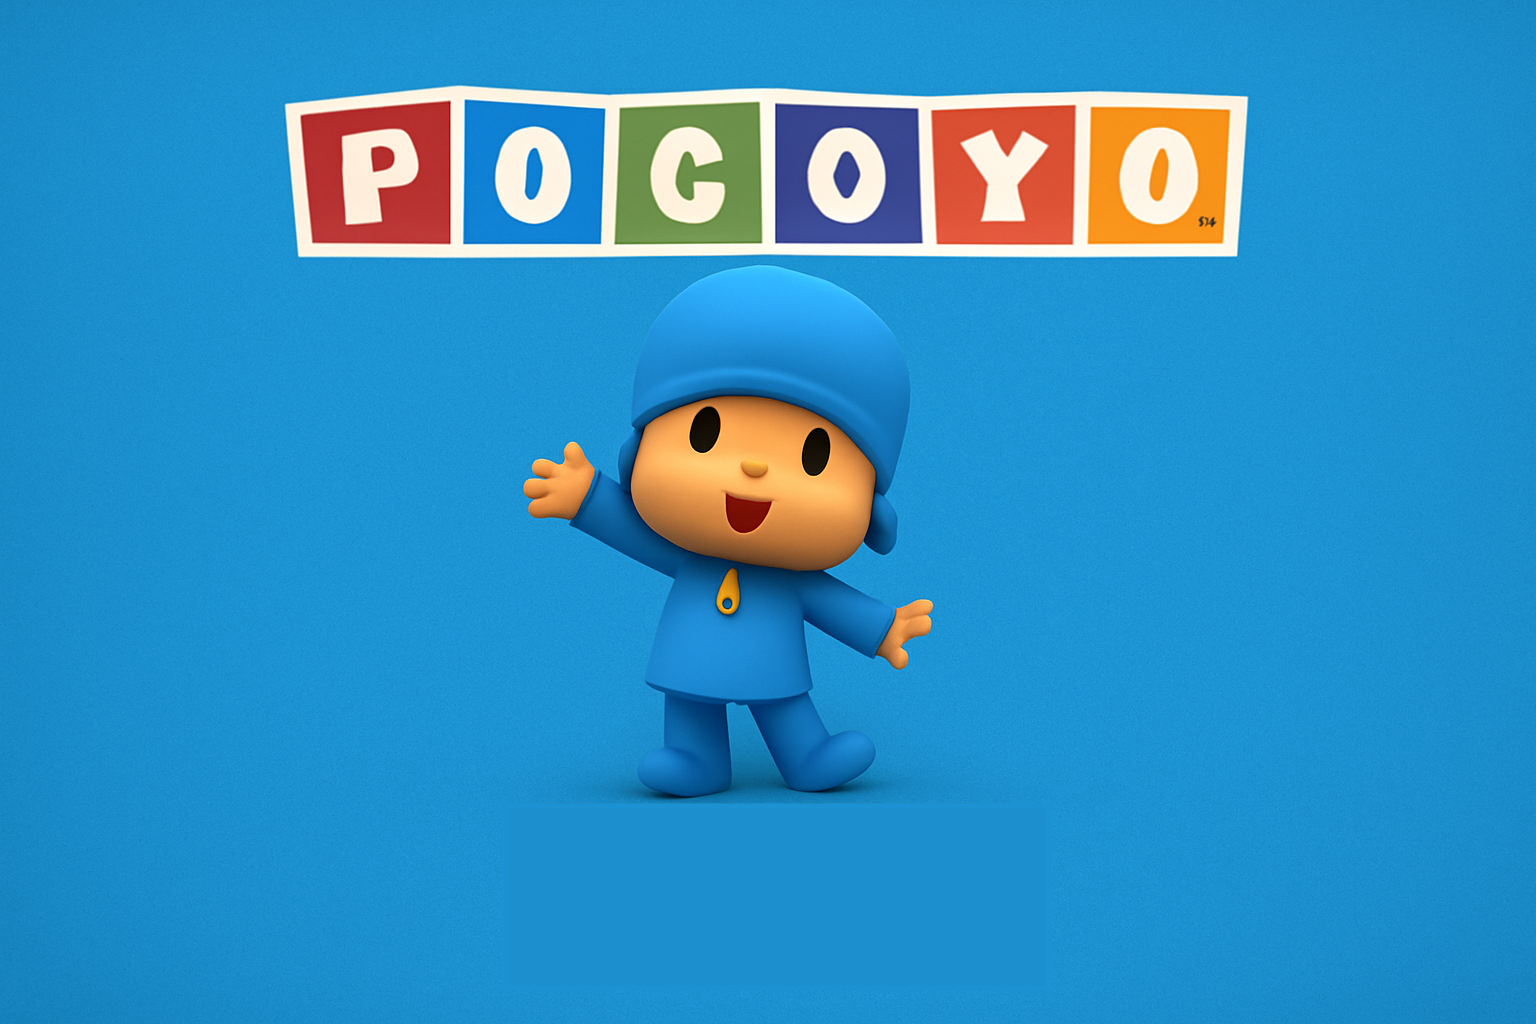
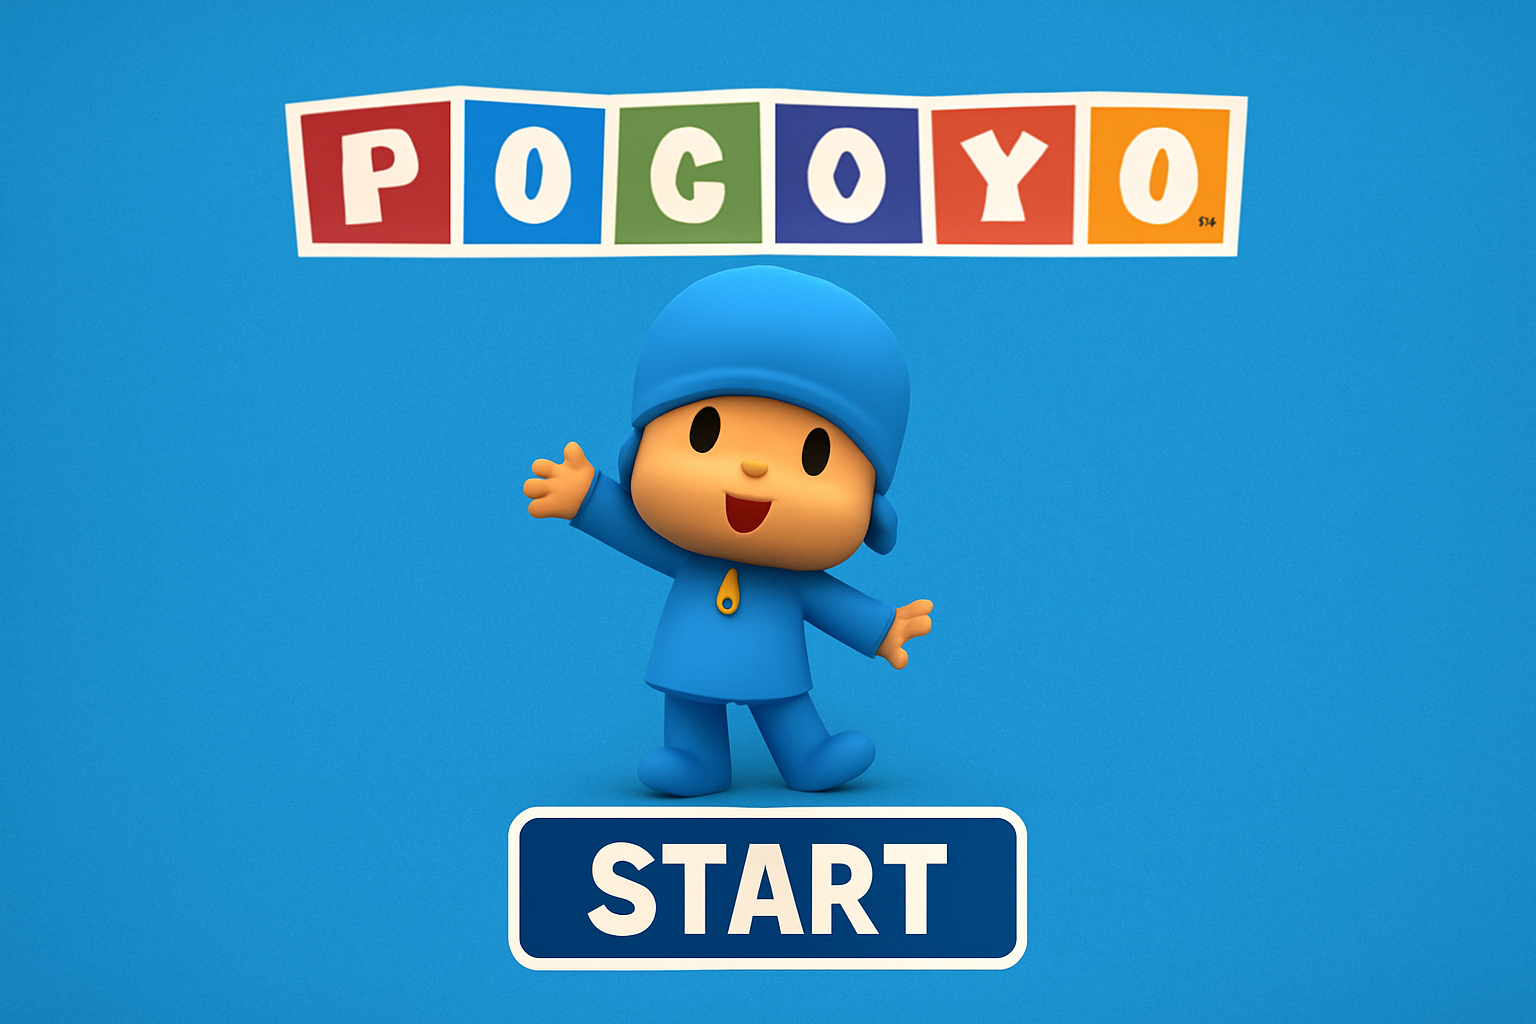
remove intro button text styling for cleaner UI

Changed region(s): [[0.3125, 0.7812, 0.6875, 0.9688]]

diff --git a/pocoyo-fly/main.js b/pocoyo-fly/main.js
@@ -103,16 +103,8 @@ function create() {
   const introImgDims = setIntroImgSize();
   // Title and button on top of intro image
   const introBtnY = this.scale.height / 2 + (introImgDims ? introImgDims.dh : this.scale.height) / 3;
-  this.introBtn = this.add.text(this.scale.width / 2, introBtnY, 'TAP OR CLICK TO START!', {
+  this.introBtn = this.add.text(this.scale.width / 2, introBtnY, '', {
     fontFamily: 'POCOYO TV, Arial, sans-serif',
-    fontWeight: 'bold',
-    fontSize: Math.max(10, Math.floor(this.scale.width / 35)) + 'px',
-    color: '#fff',
-    backgroundColor: '#bd3938',
-    padding: { left: 32, right: 32, top: 16, bottom: 16 },
-    stroke: '#bd3938',
-    strokeThickness: 1,
-    align: 'center'
   }).setOrigin(0.5).setInteractive({ useHandCursor: true });
 
   // Start game on any tap/click
